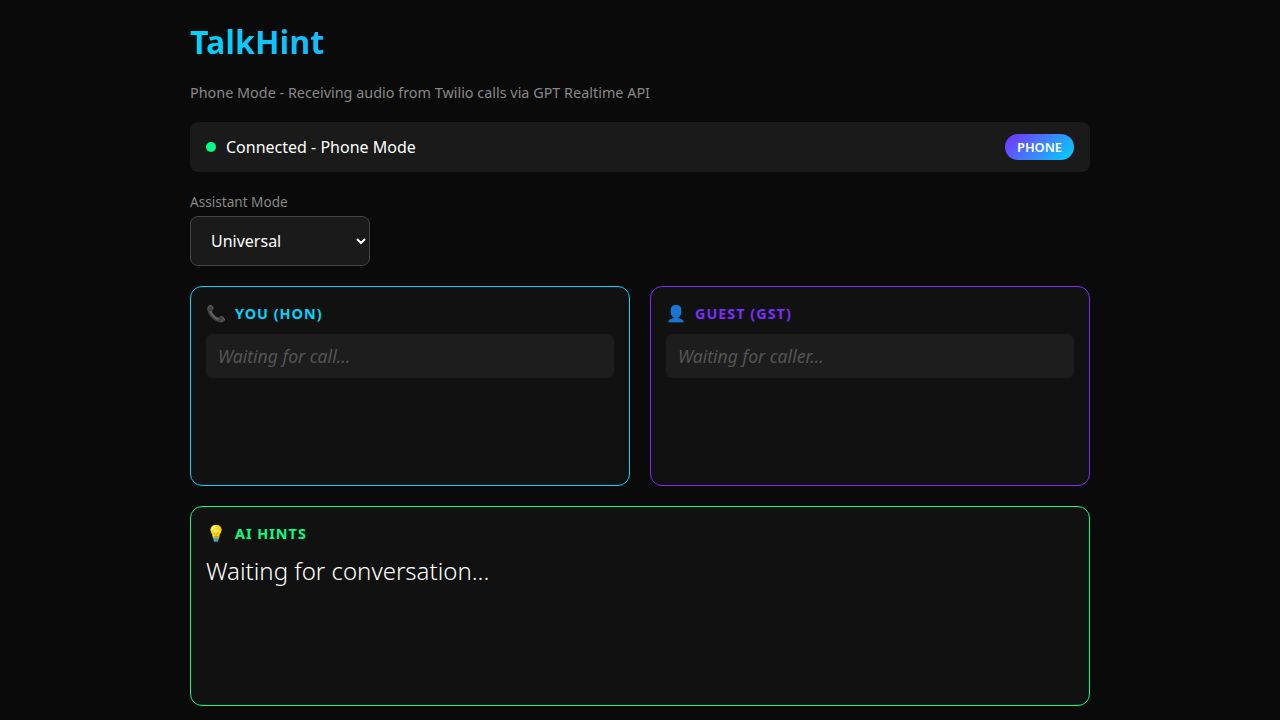
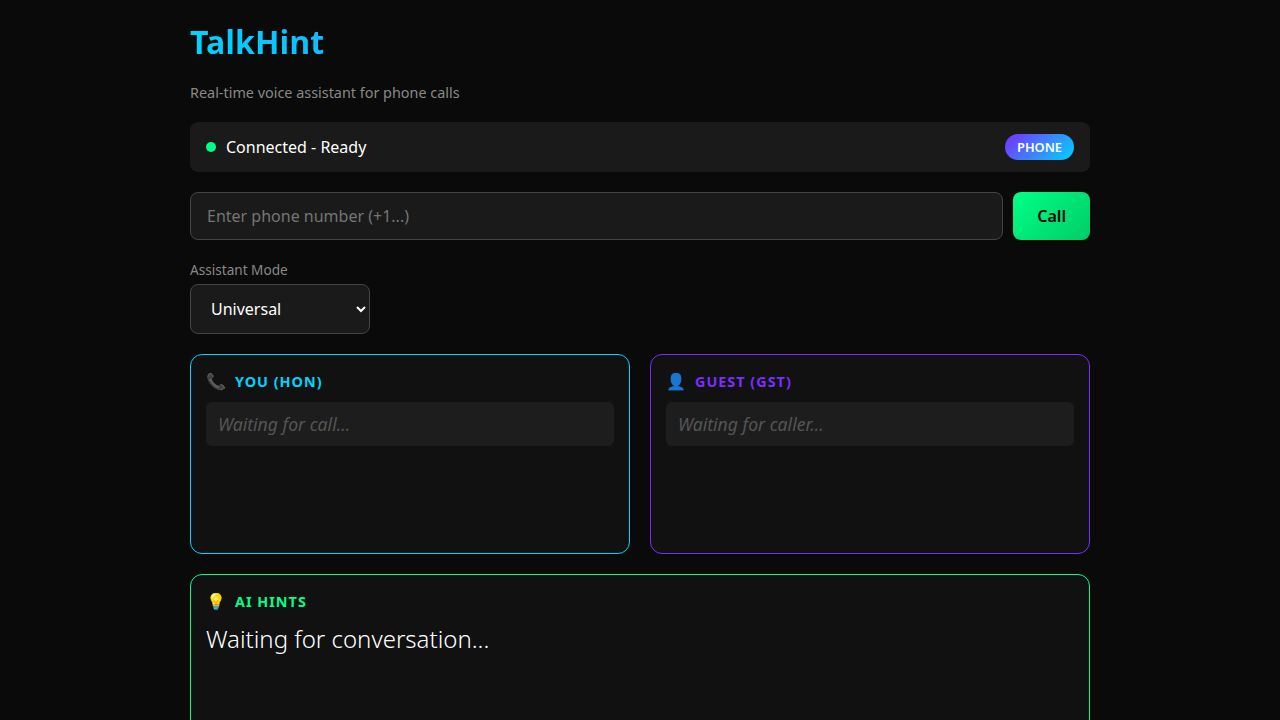
Improve call handling to support direct and bridged calls
Update the Twilio webhook to conditionally generate TwiML for either a direct outbound call or a bridged call, and modify the /start-call endpoint to accept a 'mode' parameter ('direct' or 'bridge') along with optional HON and target phone numbers. The UI has also been updated to collect both the user's and target's phone numbers for bridged calls.

Replit-Commit-Author: Agent
Replit-Commit-Session-Id: 93147814-dccb-45a5-a748-b82dc2b4c71e
Replit-Commit-Checkpoint-Type: intermediate_checkpoint
Replit-Commit-Event-Id: 83295aa2-0ac2-4cf4-826f-538f6f1fed55
Replit-Commit-Screenshot-Url: https://storage.googleapis.com/screenshot-production-us-central1/e62acc35-f5e5-43be-91ea-c3ad7b36be85/93147814-dccb-45a5-a748-b82dc2b4c71e/xMB2cGP
Replit-Helium-Checkpoint-Created: true

diff --git a/server/routes.ts b/server/routes.ts
@@ -56,64 +56,72 @@ export async function registerRoutes(
     });
   });
 
-  // Twilio inbound webhook - returns TwiML to start Media Stream + Dial
+  // Twilio webhook - returns TwiML to start Media Stream and optionally dial target
   app.post("/twilio/inbound", (req, res) => {
     const host = req.headers.host || req.hostname;
-    const protocol = host.includes("localhost") ? "ws" : "wss";
-    const wsUrl = `${protocol}://${host}/media`;
+    const wsUrl = `wss://${host}/twilio-stream`;
     
-    // Get target number from query params or body
-    const targetNumber = req.query.target || req.body?.target;
+    // Get target number from query params (passed from /start-call)
+    const targetNumber = req.query.target as string | undefined;
+    
+    console.log("[TwiML] Generating TwiML, stream URL:", wsUrl);
+    console.log("[TwiML] Target number:", targetNumber || "none (direct call)");
     
     let twiml: string;
     
     if (targetNumber) {
-      // Outbound call: start stream + dial to target
+      // This is a bridge call: HON's phone answered, now dial TARGET
+      // Audio from both parties streams to TalkHint
       twiml = `<?xml version="1.0" encoding="UTF-8"?>
 <Response>
   <Start>
     <Stream url="${wsUrl}" track="both_tracks" />
   </Start>
+  <Say>Connecting your call.</Say>
   <Dial callerId="${TWILIO_PHONE_NUMBER}">
     <Number>${targetNumber}</Number>
   </Dial>
 </Response>`;
     } else {
-      // Inbound call: start stream + pause to keep call open
+      // Direct outbound call to target - just stream and keep open
       twiml = `<?xml version="1.0" encoding="UTF-8"?>
 <Response>
   <Start>
     <Stream url="${wsUrl}" track="both_tracks" />
   </Start>
-  <Say>Welcome to TalkHint. Connecting you now.</Say>
-  <Pause length="60"/>
+  <Say>Connected to TalkHint. Your call is being monitored.</Say>
+  <Pause length="300"/>
 </Response>`;
     }
 
+    console.log("[TwiML] Sending TwiML");
     res.type("text/xml").send(twiml);
   });
 
   // Also support GET for testing
   app.get("/twilio/inbound", (req, res) => {
     const host = req.headers.host || req.hostname;
-    const protocol = host.includes("localhost") ? "ws" : "wss";
-    const wsUrl = `${protocol}://${host}/media`;
+    const wsUrl = `wss://${host}/twilio-stream`;
     
     const twiml = `<?xml version="1.0" encoding="UTF-8"?>
 <Response>
   <Start>
     <Stream url="${wsUrl}" track="both_tracks" />
   </Start>
-  <Pause length="60"/>
+  <Say>TalkHint streaming active.</Say>
+  <Pause length="300"/>
 </Response>`;
 
     res.type("text/xml").send(twiml);
   });
 
   // Start outbound call via Twilio REST API
+  // Two modes:
+  // 1. Direct: Calls TARGET directly, streams audio (one-party call for testing)
+  // 2. Bridge: Calls HON first, then dials TARGET when HON answers (two-party call)
   app.post("/start-call", async (req, res) => {
     try {
-      const { target } = req.body;
+      const { target, hon, mode = 'direct' } = req.body;
       
       if (!target) {
         return res.status(400).json({ error: "Target phone number is required" });
@@ -124,12 +132,25 @@ export async function registerRoutes(
       }
       
       const host = req.headers.host || req.hostname;
-      const webhookUrl = `https://${host}/twilio/inbound?target=${encodeURIComponent(target)}`;
-      
-      console.log(`Starting call to ${target} via webhook ${webhookUrl}`);
-      
-      // Make Twilio API call - dial the TARGET number, not Twilio number
       const auth = Buffer.from(`${TWILIO_ACCOUNT_SID}:${TWILIO_AUTH_TOKEN}`).toString('base64');
+      
+      let toNumber: string;
+      let webhookUrl: string;
+      
+      if (mode === 'bridge' && hon) {
+        // Bridge mode: Call HON first, TwiML will dial TARGET
+        toNumber = hon;
+        webhookUrl = `https://${host}/twilio/inbound?target=${encodeURIComponent(target)}`;
+        console.log(`[start-call] Bridge mode: calling HON ${hon}, will connect to TARGET ${target}`);
+      } else {
+        // Direct mode: Call TARGET directly, just stream audio
+        toNumber = target;
+        webhookUrl = `https://${host}/twilio/inbound`;
+        console.log(`[start-call] Direct mode: calling TARGET ${target}`);
+      }
+      
+      console.log(`[start-call] To: ${toNumber}, From: ${TWILIO_PHONE_NUMBER}`);
+      console.log(`[start-call] Webhook: ${webhookUrl}`);
       
       const twilioResponse = await fetch(
         `https://api.twilio.com/2010-04-01/Accounts/${TWILIO_ACCOUNT_SID}/Calls.json`,
@@ -140,8 +161,8 @@ export async function registerRoutes(
             'Content-Type': 'application/x-www-form-urlencoded',
           },
           body: new URLSearchParams({
-            To: target, // Dial the TARGET number entered by user
-            From: TWILIO_PHONE_NUMBER!, // Caller ID shown to recipient
+            To: toNumber,
+            From: TWILIO_PHONE_NUMBER!,
             Url: webhookUrl,
           }),
         }
@@ -149,21 +170,22 @@ export async function registerRoutes(
       
       if (!twilioResponse.ok) {
         const errorText = await twilioResponse.text();
-        console.error('Twilio API error:', errorText);
+        console.error('[start-call] Twilio API error:', errorText);
         return res.status(twilioResponse.status).json({ error: 'Failed to initiate call', details: errorText });
       }
       
       const callData = await twilioResponse.json();
-      console.log(`Call initiated: ${callData.sid}`);
+      console.log(`[start-call] Call initiated: ${callData.sid}`);
       
       res.json({ 
         success: true, 
         callSid: callData.sid,
         status: callData.status,
-        target 
+        target,
+        mode 
       });
     } catch (error: any) {
-      console.error('Start call error:', error);
+      console.error('[start-call] Error:', error);
       res.status(500).json({ error: error.message || 'Failed to start call' });
     }
   });

diff --git a/talkhint/ui/script.js b/talkhint/ui/script.js
@@ -8,7 +8,8 @@ const UI = {
   modeBadge: document.getElementById('modeBadge'),
   modeSelect: document.getElementById('modeSelect'),
   callStatus: document.getElementById('callStatus'),
-  phoneInput: document.getElementById('phoneInput'),
+  honInput: document.getElementById('honInput'),
+  targetInput: document.getElementById('targetInput'),
   callBtn: document.getElementById('callBtn')
 };
 
@@ -121,12 +122,15 @@ function handleMessage(data) {
       log(`Call started: ${data.callSid}`, 'success');
       UI.statusDot.classList.remove('calling');
       UI.statusDot.classList.add('active');
-      UI.statusText.textContent = 'Active Call';
+      UI.statusText.textContent = 'Active Call - Streaming';
       UI.callStatus.textContent = `Active call: ${data.callSid}`;
       UI.callBtn.textContent = 'End Call';
       UI.callBtn.classList.remove('start');
       UI.callBtn.classList.add('end');
-      clearTranscripts();
+      // Show streaming status in panels
+      UI.hon.innerHTML = '<p class="streaming">Streaming... Listening for your voice</p>';
+      UI.gst.innerHTML = '<p class="streaming">Streaming... Listening for caller</p>';
+      UI.hints.textContent = 'Waiting for conversation...';
       break;
 
     case 'call_ended':
@@ -192,17 +196,19 @@ function clearTranscripts() {
 }
 
 async function startCall() {
-  const phoneNumber = UI.phoneInput.value.trim();
+  const honPhone = UI.honInput.value.trim();
+  const targetPhone = UI.targetInput.value.trim();
   
-  if (!phoneNumber) {
-    log('Please enter a phone number', 'error');
+  if (!honPhone || !targetPhone) {
+    log('Please enter both phone numbers', 'error');
+    UI.callStatus.textContent = 'Enter both phone numbers';
     return;
   }
   
-  log(`Starting call to: ${phoneNumber}`);
+  log(`Starting bridge call: ${honPhone} -> ${targetPhone}`);
   UI.statusDot.classList.add('calling');
-  UI.statusText.textContent = 'Calling...';
-  UI.callStatus.textContent = `Calling ${phoneNumber}...`;
+  UI.statusText.textContent = 'Calling your phone...';
+  UI.callStatus.textContent = `Calling ${honPhone}...`;
   UI.callBtn.disabled = true;
   
   try {
@@ -211,7 +217,11 @@ async function startCall() {
       headers: {
         'Content-Type': 'application/json',
       },
-      body: JSON.stringify({ target: phoneNumber }),
+      body: JSON.stringify({ 
+        target: targetPhone,
+        hon: honPhone,
+        mode: 'bridge'
+      }),
     });
     
     const data = await response.json();
@@ -219,6 +229,7 @@ async function startCall() {
     if (data.success) {
       log(`Call initiated: ${data.callSid}`, 'success');
       activeCallSid = data.callSid;
+      UI.callStatus.textContent = `Calling you first, then ${targetPhone}...`;
       UI.callBtn.disabled = false;
     } else {
       log(`Call failed: ${data.error}`, 'error');
@@ -249,7 +260,7 @@ UI.modeSelect.addEventListener('change', (e) => {
   sendMode(currentMode);
 });
 
-UI.phoneInput.addEventListener('keypress', (e) => {
+UI.targetInput.addEventListener('keypress', (e) => {
   if (e.key === 'Enter' && !isCallActive) {
     startCall();
   }

diff --git a/talkhint/ui/index.html b/talkhint/ui/index.html
@@ -93,6 +93,11 @@
       color: #fff;
     }
     .call-btn.end:hover { transform: scale(1.05); }
+    .call-help {
+      font-size: 0.8rem;
+      color: #666;
+      margin-top: 5px;
+    }
     .controls {
       display: flex;
       gap: 10px;
@@ -162,6 +167,11 @@
       color: #555;
       font-style: italic;
     }
+    .content .streaming {
+      color: #00ff88;
+      font-style: italic;
+      animation: pulse 1.5s infinite;
+    }
     .hints-text {
       font-size: 1.5rem;
       font-weight: 300;
@@ -207,9 +217,11 @@
     </div>
 
     <div class="call-controls">
-      <input type="tel" class="phone-input" id="phoneInput" placeholder="Enter phone number (+1...)" data-testid="input-phone">
+      <input type="tel" class="phone-input" id="honInput" placeholder="Your phone (+1...)" data-testid="input-hon">
+      <input type="tel" class="phone-input" id="targetInput" placeholder="Target phone (+1...)" data-testid="input-target">
       <button class="call-btn start" id="callBtn" data-testid="button-call">Call</button>
     </div>
+    <p class="call-help">Enter YOUR phone first, then the target. We'll call you and connect to target.</p>
 
     <div class="controls">
       <div class="mode-selector">
